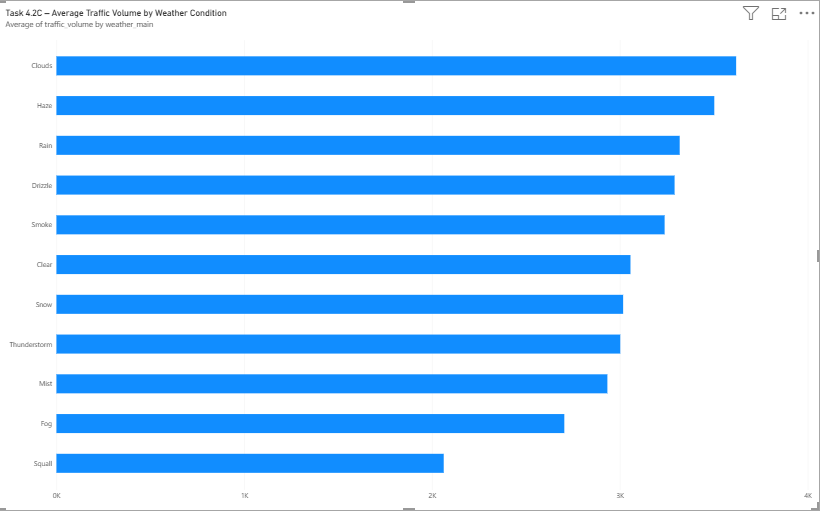
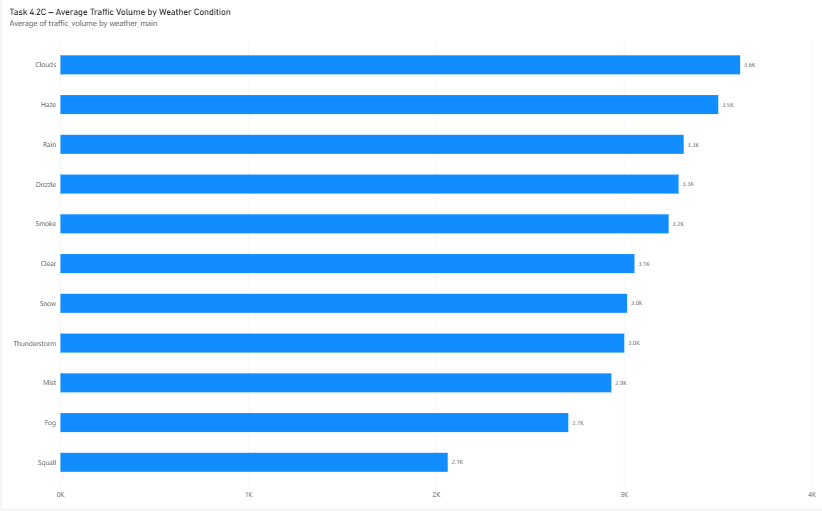
updte 4.2D

diff --git a/README.md b/README.md
@@ -144,3 +144,16 @@ conda activate tf_wsl2_310
 * Squall conditions had the lowest average traffic volume at 2,061.45 vehicles.
 * The difference between the highest and lowest average traffic was 1,557 vehicles.
 * This suggests traffic volume varies across weather conditions, though weather alone should not be treated as the sole cause of the differences.
+
+### Task 4.2D – Temperature vs Traffic Findings
+
+![Temprature vs Traffic](part1_data_analytics/images/task4_2d_temperature_vs_traffic.png)
+
+* The scatter plot shows no clear visual relationship between temperature and traffic volume. 
+* Traffic levels are broadly similar across approximately −20°C to +30°C, with no distinct temperature band associated with higher traffic. 
+* This is consistent with the weak positive correlation coefficient of 0.1323.
+
+
+
+
+
